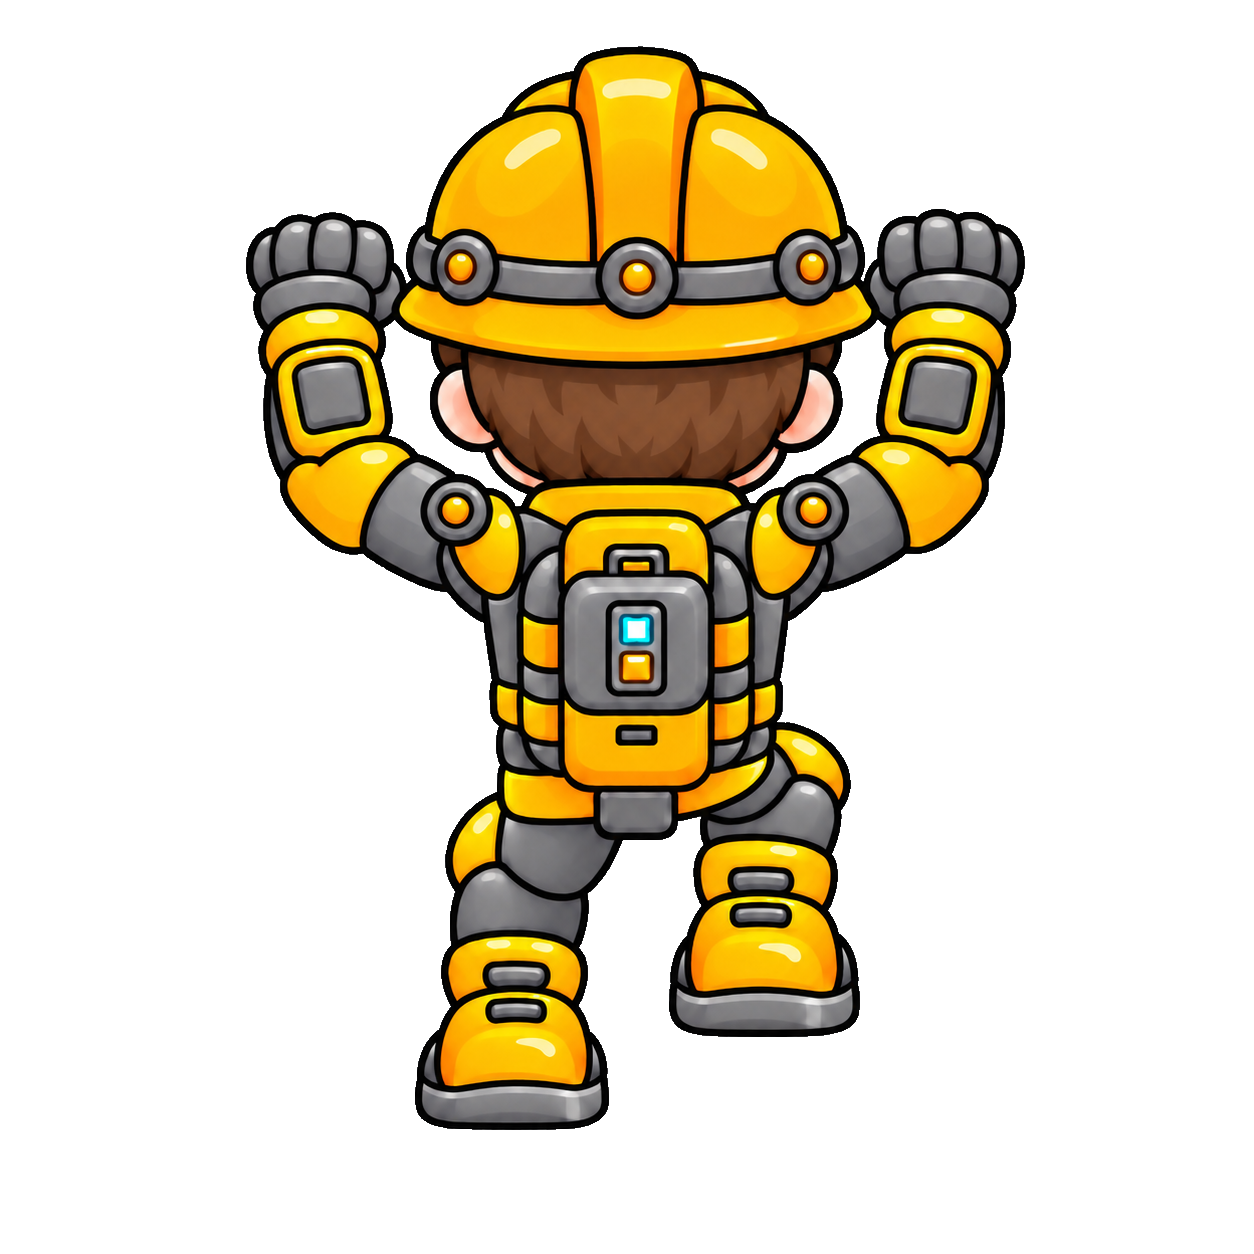
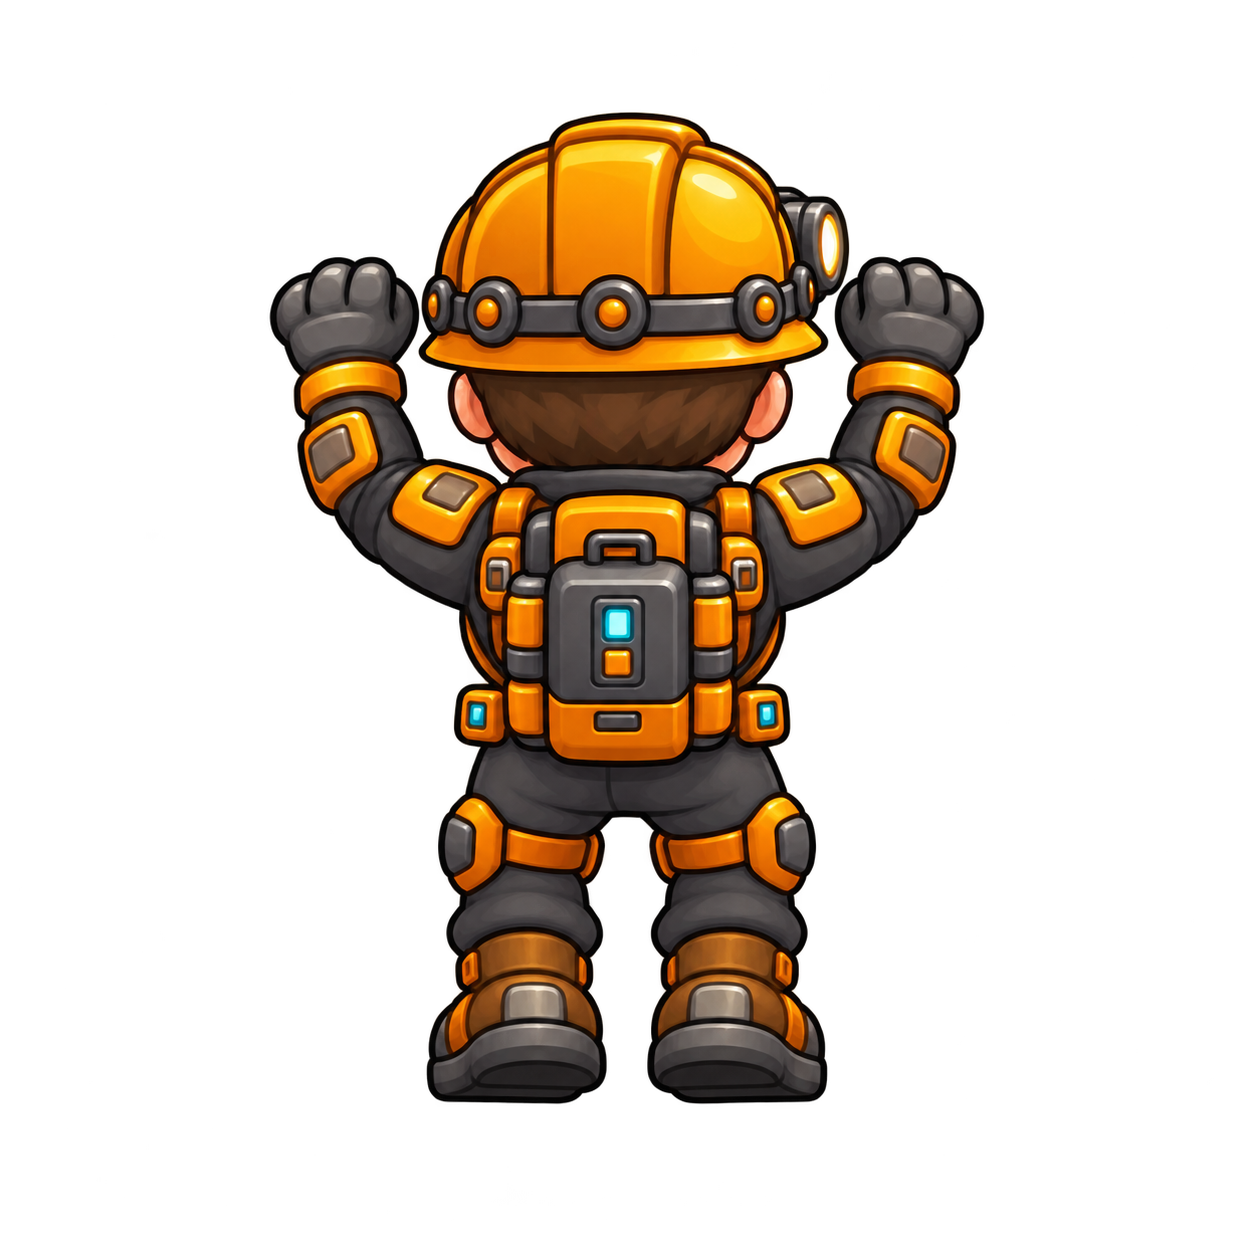
feat: 사다리 뒷모습 3프레임 개선 및 Bootstrap 검증 추가

Changed region(s): [[0.1866, 0.0311, 0.8397, 0.9019]]

diff --git a/sub-terra/Assets/_Project/Tests/PlayMode/Integration/MineDemo/LadderBackBootstrapPlayModeTests.cs b/sub-terra/Assets/_Project/Tests/PlayMode/Integration/MineDemo/LadderBackBootstrapPlayModeTests.cs
@@ -1,0 +1,129 @@
+#if UNITY_EDITOR
+using System;
+using System.Collections;
+using System.Collections.Generic;
+using System.IO;
+using NUnit.Framework;
+using SubTerra.App.Core;
+using SubTerra.App.Save;
+using SubTerra.Gameplay.Player;
+using UnityEditor;
+using UnityEngine;
+using UnityEngine.SceneManagement;
+using UnityEngine.TestTools;
+
+namespace SubTerra.App.Tests.PlayMode.MineDemo
+{
+    public sealed class LadderBackBootstrapPlayModeTests
+    {
+        private const string Frames = "Assets/_Project/Art/Characters/Player/Frames/LadderBack/";
+        private PlayerMovement movement;
+        private SpriteRenderer visual;
+        private Sprite[] frames;
+
+        [UnityTest]
+        public IEnumerator Bootstrap_NewGame_ClimbUsesImportedBackFramesOnly()
+        {
+            // 실제 세이브를 건드리지 않도록 전용 실행 인자를 필수로 요구한다.
+            var args = Environment.GetCommandLineArgs();
+            var saveIndex = Array.IndexOf(args, "-subterra-save-root");
+            if (saveIndex < 0 || saveIndex + 1 >= args.Length)
+                Assert.Ignore("Run with -subterra-save-root pointing to an isolated test directory.");
+            var testRoot = Path.GetFullPath(args[saveIndex + 1]);
+            var tempRoot = Path.GetFullPath(Path.Combine(Application.dataPath, "../Temp"));
+            Assert.That(testRoot.StartsWith(tempRoot + Path.DirectorySeparatorChar, StringComparison.OrdinalIgnoreCase), Is.True);
+            Assert.That(Directory.Exists(testRoot), Is.False, "Use a fresh save directory for each run.");
+
+            GameBootstrapper.ResetInstanceForTests();
+            yield return SceneManager.LoadSceneAsync("Assets/_Project/Scenes/Bootstrap/Bootstrap.unity");
+            yield return WaitFor(() => SceneManager.GetActiveScene().name == "MainMenu");
+            yield return null;
+            Assert.That(SaveRuntimeController.Instance, Is.Not.Null);
+            Assert.That(SaveRuntimeController.Instance.StartNewGame(1), Is.True);
+            yield return WaitFor(() => SceneManager.GetActiveScene().name == "SurfaceBase");
+            yield return null;
+            yield return null;
+            Assert.That(SaveRuntimeController.Instance.TryStartExploration(out var reason), Is.True, reason);
+            yield return WaitFor(() => SceneManager.GetActiveScene().name == "Mine_Demo_Integration");
+            yield return WaitFor(() => SaveRuntimeController.Instance.IsUiReady);
+            Debug.Log("[Ladder Bootstrap QA] Integration UI ready.");
+            movement = UnityEngine.Object.FindFirstObjectByType<PlayerMovement>();
+            Assert.That(movement, Is.Not.Null);
+            var input = movement.GetComponent<PlayerController>();
+            if (input != null) input.enabled = false;
+            movement.SetCanMove(true);
+            visual = movement.transform.Find("VisualRoot").GetComponent<SpriteRenderer>();
+            frames = new Sprite[3];
+            for (var i = 0; i < frames.Length; i++)
+            {
+                frames[i] = AssetDatabase.LoadAssetAtPath<Sprite>(Frames + "ladder_back_0" + (i + 1) + ".png");
+                Assert.That(frames[i], Is.Not.Null);
+                Assert.That(frames[i].texture.width, Is.EqualTo(1254));
+                Assert.That(frames[i].pixelsPerUnit, Is.EqualTo(1254));
+            }
+
+            // 실제 5칸 시설 프리팹으로 연결과 물리 등반을 검증한다.
+            var ladderPrefab = AssetDatabase.LoadAssetAtPath<GameObject>("Assets/_Project/Prefabs/Gameplay/Traversal/Ladder_Buildable.prefab");
+            Assert.That(ladderPrefab, Is.Not.Null);
+            var origin = movement.transform.position + Vector3.up * 4f;
+            UnityEngine.Object.Instantiate(ladderPrefab, origin, Quaternion.identity);
+            var body = movement.GetComponent<Rigidbody2D>();
+            body.position = origin;
+            body.linearVelocity = Vector2.zero;
+            Physics2D.SyncTransforms();
+            yield return new WaitForFixedUpdate();
+            yield return null;
+            Assert.That(movement.IsTouchingLadder, Is.True);
+            Assert.That(visual.sprite, Is.SameAs(frames[0]));
+            Debug.Log("[Ladder Bootstrap QA] Neutral imported frame selected.");
+            var visualPosition = visual.transform.localPosition;
+            yield return Travel(1f, "ascending");
+            movement.SetVerticalMoveInput(0f);
+            yield return new WaitForFixedUpdate();
+            yield return null;
+            Assert.That(visual.sprite, Is.SameAs(frames[0]));
+            yield return Travel(-1f, "descending");
+            Debug.Log("[Ladder Bootstrap QA] Ascending and descending selected all three frames.");
+            Assert.That(visual.transform.localPosition, Is.EqualTo(visualPosition), "VisualRoot must not bob.");
+            movement.SetVerticalMoveInput(0f);
+            body.position += Vector2.right * 2f;
+            Physics2D.SyncTransforms();
+            yield return new WaitForFixedUpdate();
+            yield return new WaitForSeconds(0.15f);
+            Assert.That(movement.IsClimbing, Is.False);
+            Assert.That(Array.IndexOf(frames, visual.sprite), Is.EqualTo(-1), "Normal sprite must be restored on exit.");
+        }
+
+        private IEnumerator Travel(float direction, string label)
+        {
+            var observed = new HashSet<Sprite>();
+            var startY = movement.Position.y;
+            movement.SetVerticalMoveInput(direction);
+            var deadline = Time.realtimeSinceStartup + 4f;
+            while (Mathf.Abs(movement.Position.y - startY) < 1.7f && Time.realtimeSinceStartup < deadline)
+            {
+                yield return null;
+                Assert.That(Array.IndexOf(frames, visual.sprite), Is.GreaterThanOrEqualTo(0), "Walk/parts must not appear during climb.");
+                observed.Add(visual.sprite);
+            }
+            Assert.That(Mathf.Abs(movement.Position.y - startY), Is.GreaterThanOrEqualTo(1.7f));
+            Assert.That(observed.Count, Is.EqualTo(3), "Both crossing poses and neutral must be displayed.");
+        }
+
+        private static IEnumerator WaitFor(Func<bool> condition)
+        {
+            var deadline = Time.realtimeSinceStartup + 20f;
+            while (!condition() && Time.realtimeSinceStartup < deadline) yield return null;
+            Assert.That(condition(), Is.True, "Bootstrap scene flow timed out.");
+        }
+
+        [UnityTearDown]
+        public IEnumerator Cleanup()
+        {
+            GameBootstrapper.ResetInstanceForTests();
+            if (SaveRuntimeController.Instance != null) UnityEngine.Object.Destroy(SaveRuntimeController.Instance.gameObject);
+            yield return null;
+        }
+    }
+}
+#endif

diff --git a/work_process/art_drafts/pr138-ladder/README.md b/work_process/art_drafts/pr138-ladder/README.md
@@ -1,0 +1,67 @@
+# PR #138 사다리 중립 자세 시안
+
+## 현재 상태
+
+- 작업 브랜치: `codex/elevator-outpost-ride-followup`
+- PR 기준: `74324391`
+- 반영한 최신 main: `c8c8a595` (업그레이드 창 B-118-1 포함)
+- main 병합은 충돌 없이 진행했으며, `96355e9a` 커밋으로 저장했다.
+- 기존 사용자 체크아웃과 미커밋 변경은 수정하지 않았다.
+- `ladder-neutral-v1.png`는 이전 시안이다. 사용자가 `ladder-neutral-v2.png`를 확정했으며, 기존 3개 PNG를 교체했다.
+- `ladder_back_01.png`: v2 중립 자세 / `ladder_back_02.png`: 왼손·오른발 상승 / `ladder_back_03.png`: 오른손·왼발 상승.
+- 기존 PNG는 `original/`에 보관했다. 기존 `.meta`와 프리팹 배열, 이동 로직은 변경하지 않았다.
+- 사용자 피드백: "조금 더 정면에 가까운 뒷모습으로 수정". v2에서 배낭·몸통·양발을 거의 대칭인 뒷모습으로 맞추고, 헬멧에만 약한 방향감을 남겼다. 사용자가 v2를 확정한 뒤 교차 동작 두 장을 제작·적용했다.
+
+## 제작 기준
+
+기존 `Frames/Idle/player_idle_01.png`를 외형·질감 기준으로 사용했다.
+기존 `Frames/LadderBack/ladder_back_01.png`는 자세 참고로만 사용했다.
+파츠 리그가 아닌 완성된 캐릭터 한 장이며, 약간 돌아선 뒷모습에 양손을 올리고 양발을 같은 높이에 둔 중립 매달림 자세다.
+헬멧·배낭·어깨의 명암을 보강하고, 회색 작업복과 주황색 장비를 기존 광부와 맞추려 했다.
+사다리나 배경은 포함하지 않았으며 투명 배경으로 제작했다.
+
+사용한 방식: 내장 imagegen. 기존 PNG만 교체했으며 `.meta` GUID는 변경하지 않았다.
+출력 크기: 1254 × 1254. 모서리 알파 0 확인.
+
+### 제작 프롬프트 요약
+
+> 기존 대기 광부를 외형 기준으로, 같은 황금빛 주황 헬멧·헤드램프, 짙은 회색 작업복·장갑·부츠, 청록 표시등이 있는 소형 배낭을 유지한다. 약간 돌아선 뒷모습 중립 등반 자세 한 장을 제작한다. 양손은 귀/헬멧 높이에, 양발은 같은 기준선에 두고 무릎은 가볍게 굽힌다. 상단 왼쪽 광원과 섬세한 윤곽으로 입체감을 표현한다. 캐릭터 전체를 사각 투명 캔버스에 중앙 배치한다. 얼굴·사다리·배경·그림자·문구·분리 파츠·시트는 넣지 않으며 팔과 귀 사이도 실제 알파로 투명하게 한다.
+
+v2 수정 프롬프트: 몸통·배낭·다리를 중앙의 거의 대칭인 뒷모습으로 변경하고 큰 3/4 회전을 제거한다. 헬멧에만 최대 5도 정도의 작은 회전감을 남긴다. 장비·재질·조명·양손/양발 중립 자세·캔버스 크기를 유지한다.
+
+교차 동작 프롬프트: 승인된 v2를 편집 대상으로 사용한다. 1254 사각 투명 캔버스, 카메라·중심·헬멧·머리·몸통·배낭의 크기와 위치, 색·명암은 유지하고 팔다리만 작은 등반 동작으로 변경한다. 양손은 항상 어깨보다 위에 유지한다. 왼손을 살짝 높이며 오른발을 약 한 부츠 높이만큼 올리는 프레임과, 오른손을 높이며 왼발을 올리는 프레임을 각각 제작한다. 올리지 않은 발의 중립 기준선은 유지한다. 사다리·분리 파츠·시트·배경은 포함하지 않으며 내부 빈 공간도 투명하게 한다.
+
+오른손·왼발 프레임의 왼팔/귀 사이에 생긴 작은 갈색 잔여물은 해당 공간만 투명하게 하는 imagegen 수정으로 제거했다.
+
+## 적용 내용과 남은 단계
+
+1. v2 스타일 확정 및 중립·왼손/오른발·오른손/왼발 3장 적용 완료.
+2. 1254 사각 캔버스, 기존 PPU 1254, 중앙 피벗과 GUID 유지. 전체 플레이어 에셋 빌더는 실행하지 않았다.
+3. 현재 거리 기반 `0 → 1 → 0 → 2`, 하강 역방향, 정지 0번 구조와 기존 이동/사다리 판정은 변경하지 않았다.
+4. Bootstrap 자동 검증은 아래 기록 참조. 화면 캡처는 사용자가 필요 없다고 요청하여 제외했다.
+5. 팀원은 실제 Game 화면에서 명암·선명도와 손발 접점의 미세한 시각적 완성도를 확인하면 된다. 자동 검증은 미술 품질의 육안 확인을 대체하지 않는다.
+6. 모서리 효과 식별성은 다음 작업이며 이번 변경에 섞지 않았다.
+
+## 실행 경로 주의
+
+Unity Hub에는 이 작업 체크아웃 아래 **`sub-terra/`**를 등록한다.
+저장소 루트 또는 예전 Temp worktree를 열면 이번 병합 상태가 표시되지 않는다.
+이제 실제 Assets의 기존 PNG 경로를 교체했다. 기존 작업 폴더가 아닌 이 체크아웃의 Unity 프로젝트를 실행해야 새 이미지가 표시된다.
+
+## 검증 기록
+
+- Unity 6000.5.4f1 일반 에디터 모드에서 컴파일 및 `SubTerra.Gameplay.Player.Tests.PlayerMovementPlayModeTests` 실행: 30개 통과, 실패 0개.
+- 상승/하강 공유 프레임·역방향 거리 재생, 정지 자세, Walk 혼입 방지, 일시적 접촉 공백, 점프 및 재탑승 관련 기존 테스트 포함.
+- 테스트 결과: Unity 프로젝트의 `Temp/pr138-player-playmode.xml`. 실행 로그: `Temp/pr138-player-editor.log` (Git 제외).
+- 최초 제한 환경 실행은 Package Manager IPC 연결 실패, 헤드리스 재시도는 해당 라이선스 부재로 시작하지 못했다. 일반 에디터 실행으로 검증했다.
+- Unity가 자동 갱신한 무관한 URP 설정은 해당 파일만 검증 전 상태로 복원했다.
+- 기존 main에서 가져온 Unity 직렬화 파일에 공백 경고가 있다. 이번 사다리 작업으로 전역 포맷을 정리하지 않았다.
+- 새 이미지 적용 후 `LadderBackBootstrapPlayModeTests.Bootstrap_NewGame_ClimbUsesImportedBackFramesOnly` 통과(1개).
+- 실제 Bootstrap → MainMenu → 새 게임 → SurfaceBase → 탐사 씬 경로를 실행했다. 테스트 세이브는 Unity 프로젝트 `Temp/ladder-save-20261001-v4`에 격리해 실제 세이브를 사용하지 않았다.
+- 실제 씬 플레이어와 5칸 `Ladder_Buildable` 프리팹을 사용하여 중립 자세, 상승·하강 중 새 3개 스프라이트만 선택, 정지 시 0번 복원, VisualRoot 위치 고정, 이탈 시 일반 스프라이트 복원을 검증했다.
+- 테스트 및 임시 시설은 씬/프리팹에 저장하지 않았다. Unity가 재실행 시 Temp를 정리하므로 최종 결과 XML은 이 폴더의 `validation/`에 보존한다.
+- 새 이미지 적용 후 기존 `PlayerMovementPlayModeTests` 재실행: 30개 통과, 실패 0개. 결과: `validation/player-regression.xml`.
+- 최종 Bootstrap 재실행도 1개 통과, 실패 0개. 결과: `validation/bootstrap.xml`, 실행 로그: Unity 프로젝트 `Logs/ladder-bootstrap-final.log`.
+- 화면 캡처나 육안 게임 화면 검토는 하지 않았다. 이미지 자체는 생성 결과를 시각 확인했으며, 인게임 미술 품질·접점은 수동 확인 대상으로 남긴다.
+- 사용자가 적용 결과를 확인하고 커밋·푸시·PR 게시를 승인했다. 기존 PR #138에 이번 변경과 검증 결과를 추가한다.
+- 원본 백업·제작 시안·검증 XML과 실행 로그는 로컬에 보존하며 게시 대상에서 제외한다. Git에는 적용 PNG 3장, 회귀 테스트와 이 작업 기록을 포함한다.
